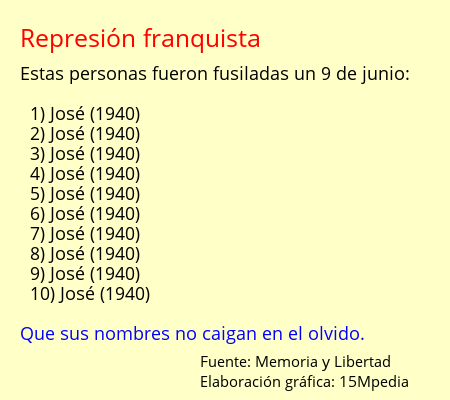
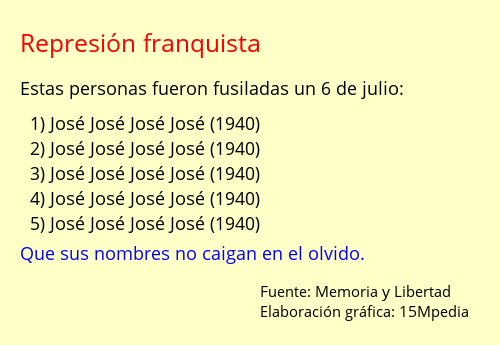
twython

Changed region(s): [[0.0311, 0.2319, 0.8089, 0.7826], [0.0311, 0.8116, 0.9333, 0.9855], [0.0311, 0.058, 0.9333, 0.2029]]

diff --git a/labs/memoria/memoria-text2image.py b/labs/memoria/memoria-text2image.py
@@ -19,11 +19,41 @@ import datetime
 import Image
 import ImageDraw
 import ImageFont
+import os
 import re
+import urllib
+from twython import Twython
+
+#config
+botscreenname = '15MpediaLabs'
+imagename = 'memjora.png'
+
+def read_keys():
+    f = open('%s/.twitter_keys' % (os.path.dirname(os.path.realpath(__file__))), 'r')
+    w = f.read()
+    APP_KEY = re.findall(r'(?im)^AP[IP]_KEY\s*=\s*([^\n]+?)\s*$', w)[0].strip()
+    APP_SECRET = re.findall(r'(?im)^AP[IP]_SECRET\s*=\s*([^\n]+?)\s*$', w)[0].strip()
+    return APP_KEY, APP_SECRET
+
+def read_tokens():
+    f = open('%s/.twitter_tokens' % (os.path.dirname(os.path.realpath(__file__))), 'r')
+    w = f.read()
+    OAUTH_TOKEN = re.findall(r'(?im)^OAUTH_TOKEN\s*=\s*([^\n]+?)\s*$', w)[0].strip()
+    OAUTH_TOKEN_SECRET = re.findall(r'(?im)^OAUTH_TOKEN_SECRET\s*=\s*([^\n]+?)\s*$', w)[0].strip()
+    return OAUTH_TOKEN, OAUTH_TOKEN_SECRET
 
 def main():
-    month2name = {'01': u'enero', '02': u'febrero', '03': u'marzo', '04': u'abril', '05': u'mayo', '06': u'junio', 
-                  '07': u'julio', '08': u'agosto', '09': u'septiembre', '10': u'octubre', '11': u'noviembre', '12': u'diciembre' }
+    APP_KEY, APP_SECRET = read_keys()
+    OAUTH_TOKEN, OAUTH_TOKEN_SECRET = read_tokens()
+    twitter = Twython(APP_KEY, APP_SECRET, OAUTH_TOKEN, OAUTH_TOKEN_SECRET)
+    
+    month2name = {'01': 'enero', '02': 'febrero', '03': 'marzo', '04': 'abril', '05': 'mayo', '06': 'junio', 
+                  '07': 'julio', '08': 'agosto', '09': 'septiembre', '10': 'octubre', '11': 'noviembre', '12': 'diciembre' }
+    
+    #raw = urllib.request.urlopen('https://15mpedia.org/w/index.php?title=Especial:Ask&q=[[Page+has+default+form%3A%3AArchivo]]+[[Categor%C3%ADa%3AArchivos+de+Foto+Spanish+Revolution]]+[[Categor%C3%ADa%3AArchivos+sin+palabras+clave]]&p=format%3Dbroadtable%2Flink%3Dall%2Fheaders%3Dshow%2Fsearchlabel%3D-26hellip%3B-20siguientes-20resultados%2Fclass%3Dsortable-20wikitable-20smwtable&po=%3FAutor%0A&order=random&limit=1&eq=no').read().decode('utf-8')
+    #m = re.findall(r'(?im)<td><a href="/wiki/Archivo:([^<> ]*?)" title=[^>]*?>[^<>]*?</a></td>[^<>]*?<td class="Autor">([^<>]*?)</td>', raw)
+    
+    #generar imagen
     fusiladosnum = 5
     d = datetime.datetime.now()
     today = '%s de %s' % (int(d.strftime('%d')), month2name[d.strftime('%m')])
@@ -34,16 +64,26 @@ def main():
     fonttext = ImageFont.truetype("OpenSans-Regular.ttf", 18)
     fontfooter = ImageFont.truetype("OpenSans-Regular.ttf", 15)
     d = ImageDraw.Draw(img)
-    d.text((20, high), u'Represión franquista', fill=(255, 0, 0), font=fonttitle)
-    d.text((20, high*3), u'Estas personas fueron fusiladas un %s:' % (today), fill=(0, 0, 0), font=fonttext)
+    d.text((20, high), 'Represión franquista', fill=(255, 0, 0), font=fonttitle)
+    d.text((20, high*3), 'Estas personas fueron fusiladas un %s:' % (today), fill=(0, 0, 0), font=fonttext)
     for i in range(fusiladosnum):
-        d.text((30, high*i+110), u'%s) José José José José (1940)' % (i+1), fill=(0, 0, 0), font=fonttext)
+        d.text((30, high*i+110), '%s) José José José José (1940)' % (i+1), fill=(0, 0, 0), font=fonttext)
 
-    d.text((20, high*(i+1)+90+high), u'Que sus nombres no caigan en el olvido.', fill=(0, 0, 255), font=fonttext)
-    d.text((260, high*(i+1)+130+high), u'Fuente: Memoria y Libertad', fill=(0, 0, 0), font=fontfooter)
-    d.text((260, high*(i+1)+150+high), u'Elaboración gráfica: 15Mpedia', fill=(0, 0, 0), font=fontfooter)
+    d.text((20, high*(i+1)+90+high), 'Que sus nombres no caigan en el olvido.', fill=(0, 0, 255), font=fonttext)
+    d.text((260, high*(i+1)+130+high), 'Fuente: Memoria y Libertad', fill=(0, 0, 0), font=fontfooter)
+    d.text((260, high*(i+1)+150+high), 'Elaboración gráfica: 15Mpedia', fill=(0, 0, 0), font=fontfooter)
     
     img.save('memoria.png')
+    
+    #tuitear imagen
+    img = open(imagename, 'rb')
+    status = 'Personas fusiladas un %s. Que sus nombres no caigan en el olvido https://15mpedia.org/wiki/%s #memoria' % (today, today_)
+    print(status)
+    response = twitter.upload_media(media=img)
+    raw = twitter.update_status(status=status, media_ids=[response['media_id']])
+    tweetid = raw['id_str']
+    print('Status:',status)
+    print('Returned ID:',tweetid)
 
 if __name__ == '__main__':
     main()
